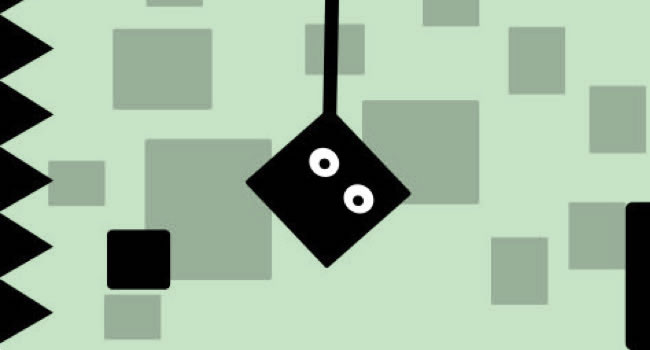
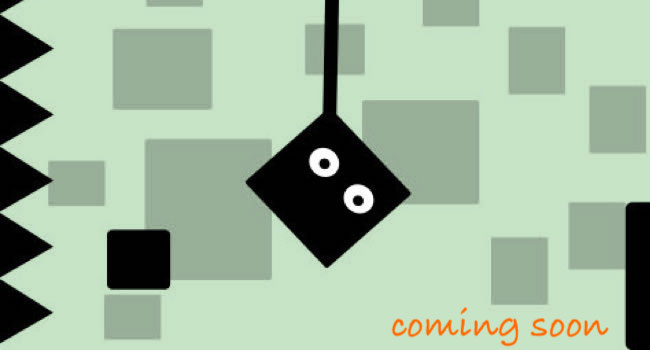
Link Quest Lands and show Rope Square as coing son

Changed region(s): [[0.5846, 0.8857, 0.9538, 1.0]]

diff --git a/index.html b/index.html
@@ -122,37 +122,37 @@
   </section>
 
   <!-- Portfolio Section -->
-  <section id="portfolio" class="page-section bg-dark text-white">
+  <section id="portfolio_2" class="page-section bg-dark text-white">
     <div class="container-fluid">
       <h2 class="text-center mt-0">Our games</h2>
       <hr class="divider my-4">
       <div class="row justify-content-center">
 
         <div class="col-lg-5 col-sm-6">
-          <a class="portfolio-box" href="img/portfolio/fullsize/1.jpg">
+          <a href="https://play.google.com/store/apps/details?id=games.roguelike.slaythetitan" target="blank">
             <img class="img-fluid" src="img/portfolio/thumbnails/1.jpg" alt="">
-            <div class="portfolio-box-caption">
-              <div class="project-category text-white-50">
-                in development
-              </div>
-              <div class="project-name">
-                Lands of Loot
-              </div>
-            </div>
-          </a>
-        </div>
-        <div class="col-lg-5 col-sm-6">
-          <a class="portfolio-box" href="img/portfolio/fullsize/3.jpg">
-            <img class="img-fluid" src="img/portfolio/thumbnails/3.jpg" alt="">
             <div class="portfolio-box-caption">
               <div class="project-category text-white-50">
                 
               </div>
               <div class="project-name">
-                TBA
+
               </div>
             </div>
           </a>
+        </div>
+        <div class="col-lg-5 col-sm-6">
+			
+            <img class="img-fluid" src="img/portfolio/thumbnails/2.jpg" alt="">
+            <div class="portfolio-box-caption">
+              <div class="project-category text-white-50">
+                
+              </div>
+              <div class="project-name">
+
+              </div>
+            </div>
+			
         </div>
       </div>
     </div>
